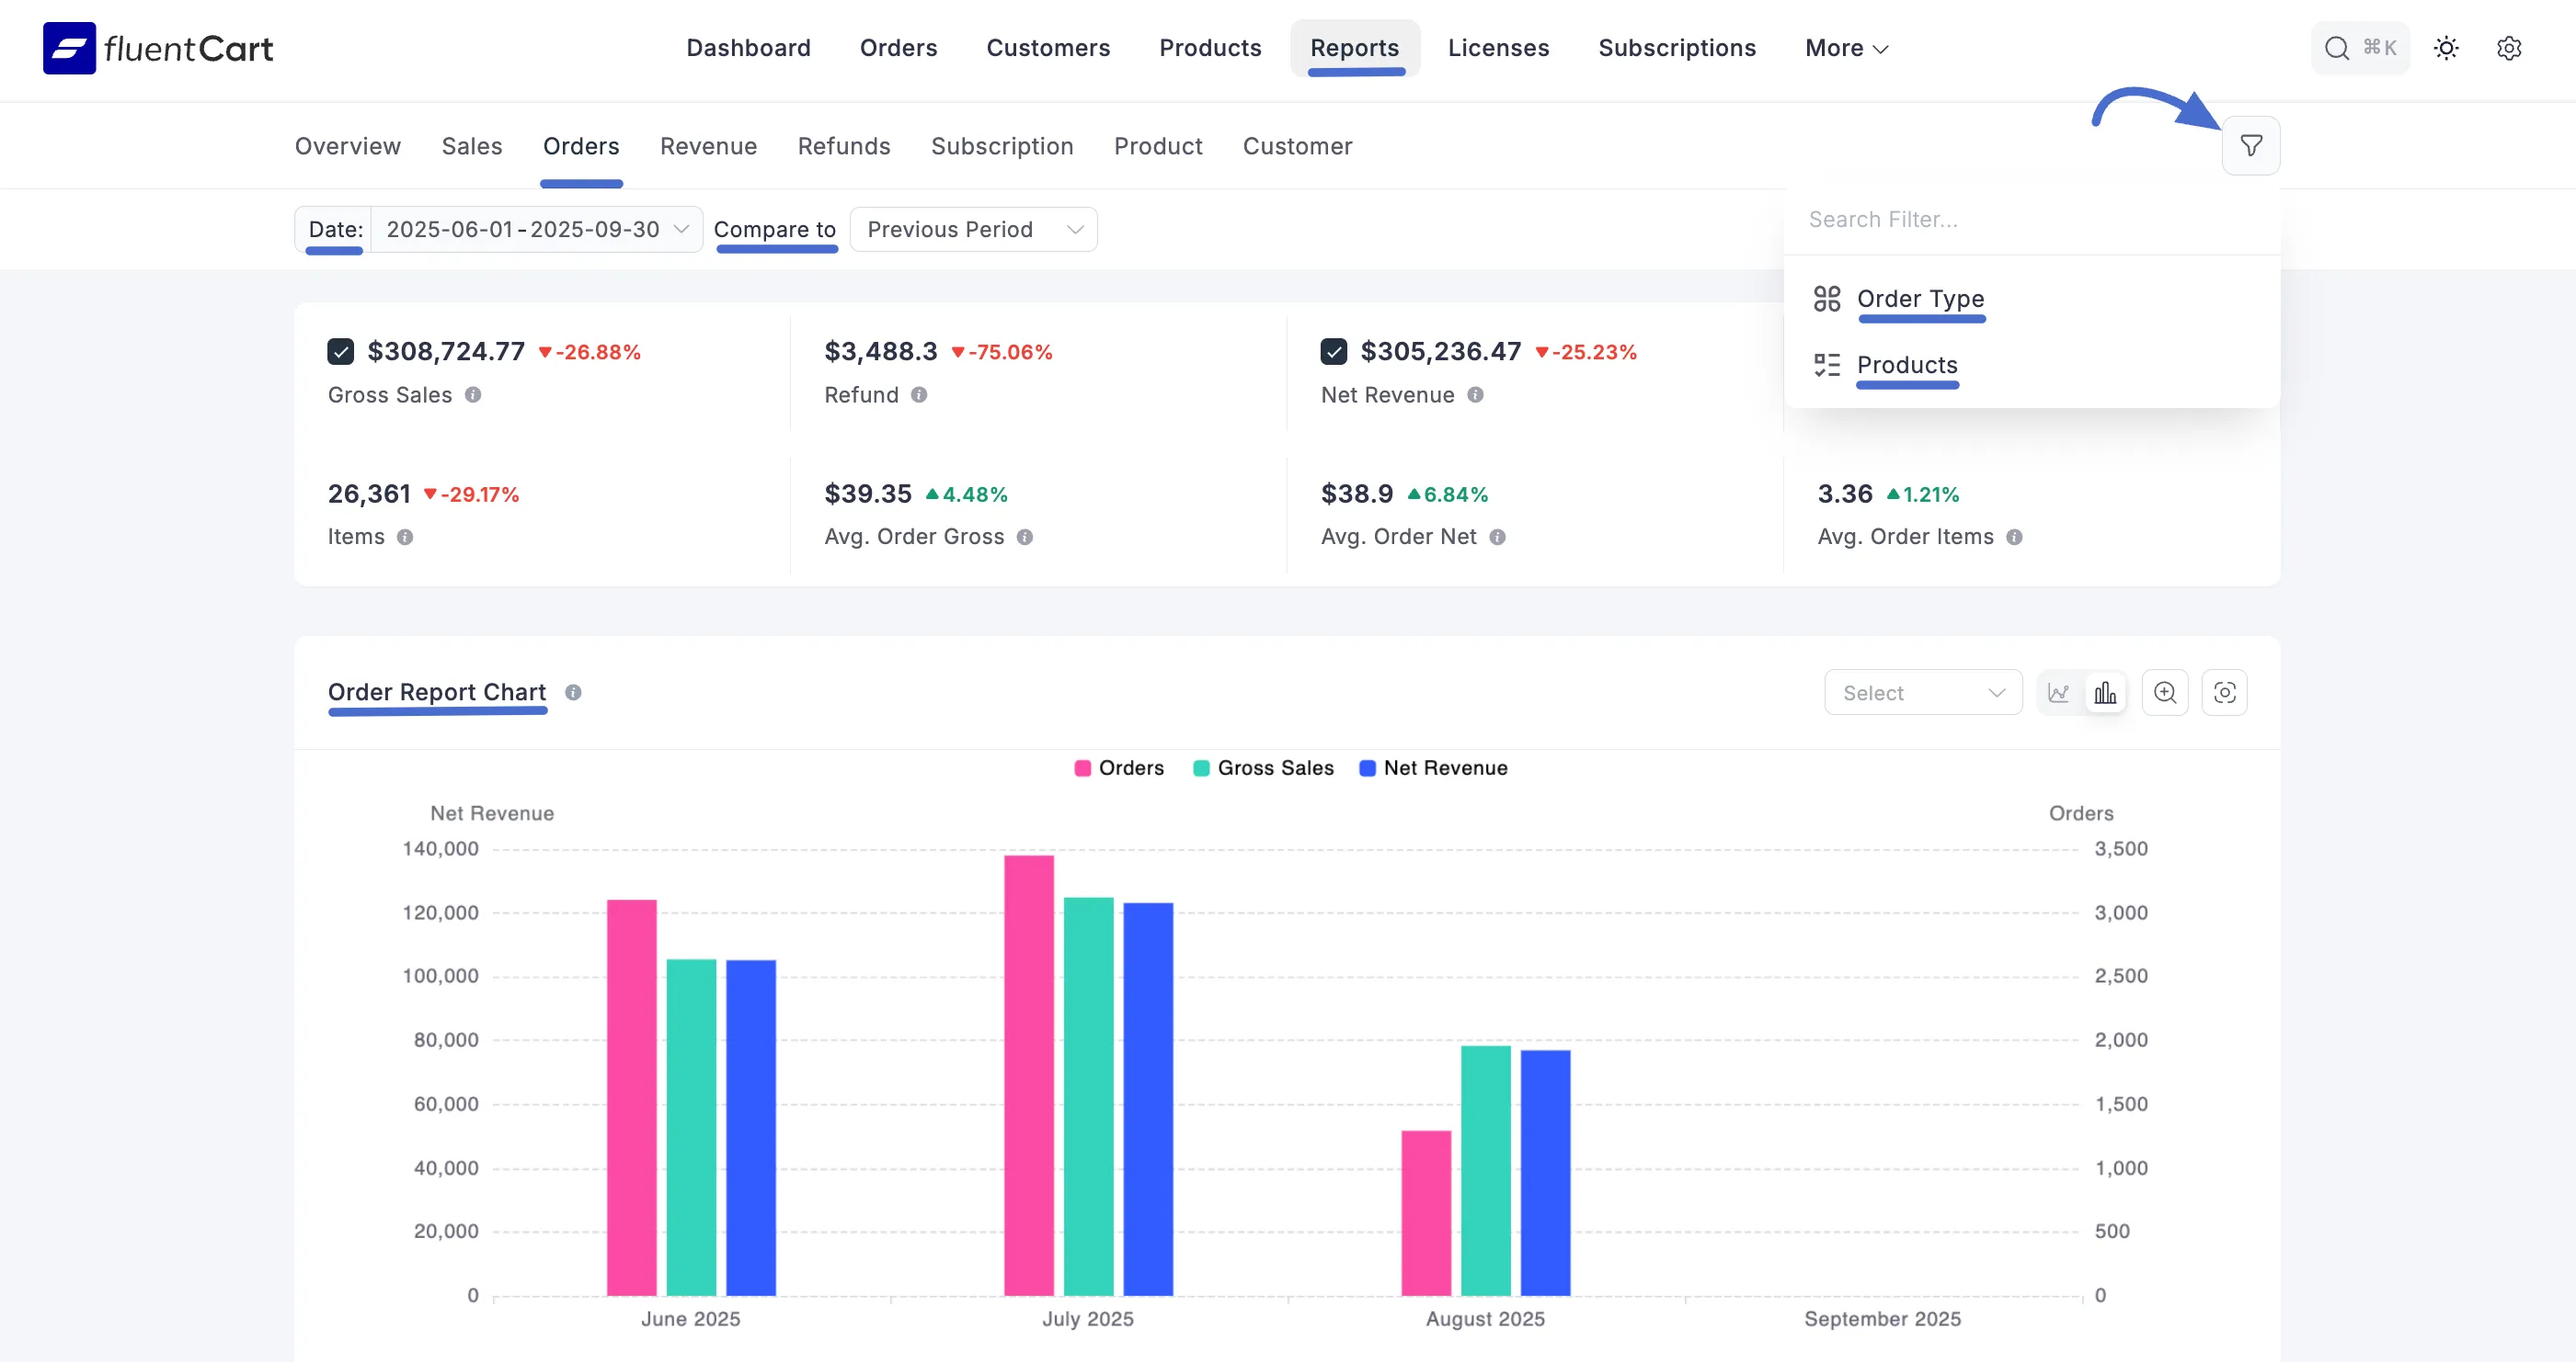
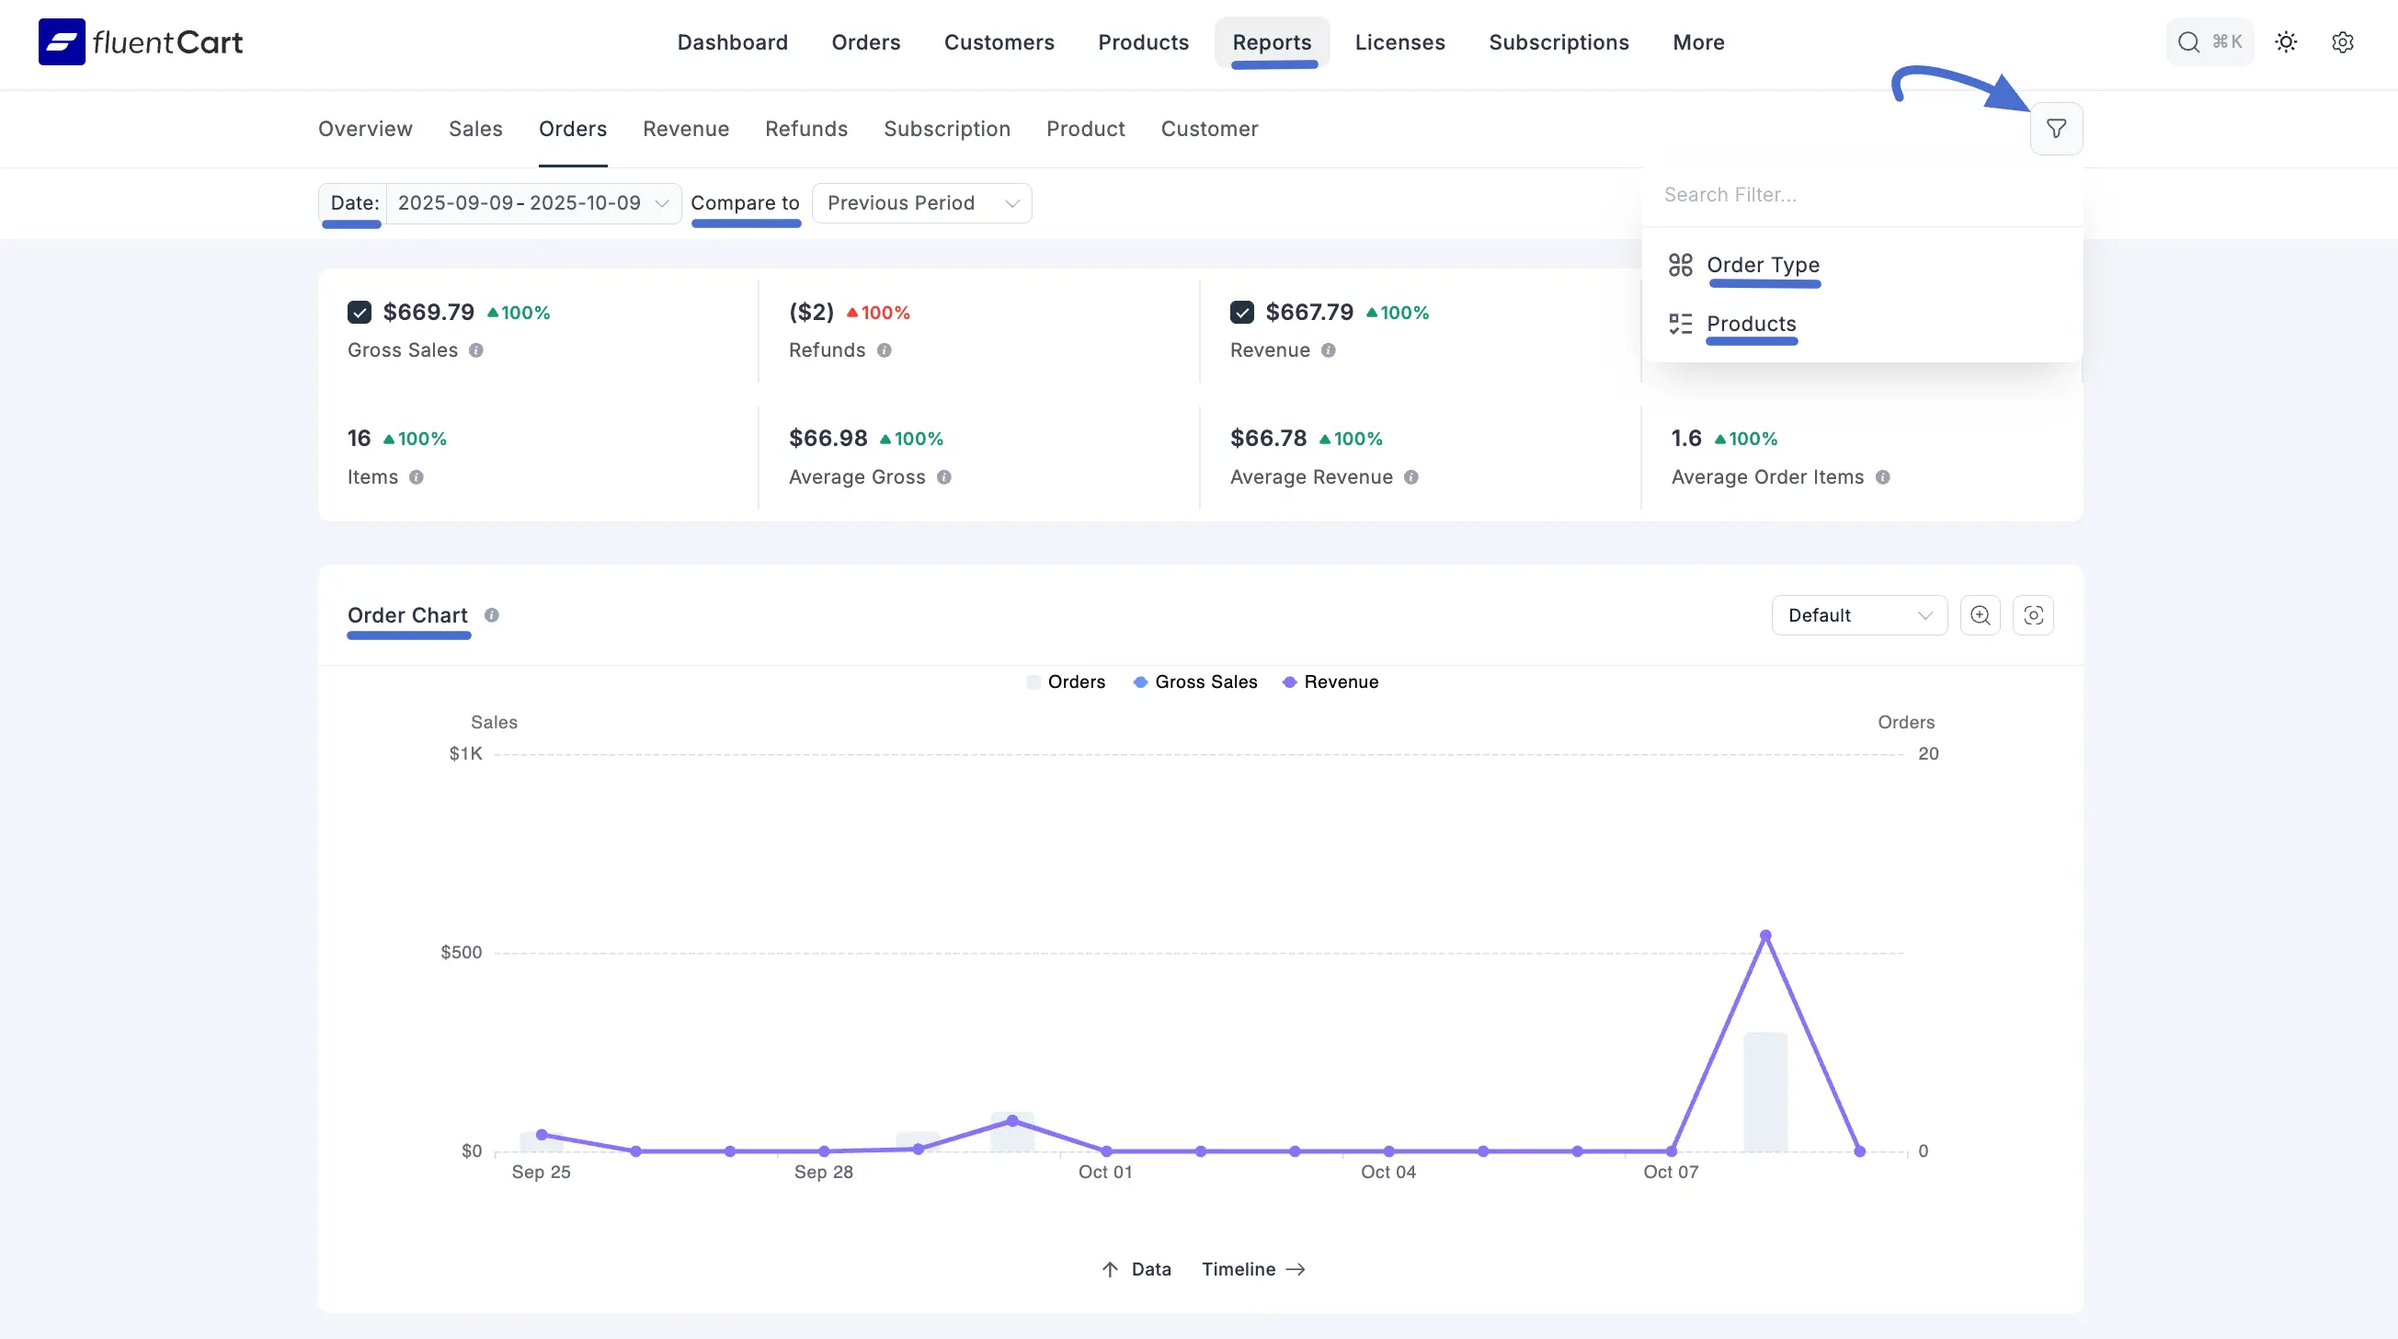
update Orders Report doc
Orders Report doc rewrite and images update

diff --git a/guide/reporting-analytics/orders-report.md b/guide/reporting-analytics/orders-report.md
@@ -27,16 +27,16 @@ At the top of the Orders Report, you will find summary cards highlighting your k
 
 * **Gross Sales:** The total revenue from all orders before any deductions.
 * **Refund:** The total amount of money refunded to customers.
-* **Net Revenue:** The revenue you've earned from orders after refunds are subtracted.
+* **Revenue:** The revenue you've earned from orders after refunds are subtracted (also known as net revenue).
 * **Orders:** The total number of orders placed.
 * **Items:** The total quantity of all product units sold.
-* **Avg. Order Gross:** The average amount of money a customer spends per order.
-* **Avg. Order Net:** The average value of an order after refunds are considered.
-* **Avg. Order Items:** The average number of items customers buy in a single order.
+* **Average Gross:** The average amount of money a customer spends per order, before refunds.
+* **Average Revenue:** The average value of an order after refunds are considered.
+* **Average Order Items:** The average number of items customers buy in a single order.
 
 Each metric also includes a percentage that indicates the increase or decrease compared to the period you are comparing against.
 
-#### Order Report Chart
+#### Order Chart
 
 Just below the KPIs, you’ll see the Order **Report Chart**. This bar chart gives you a clear visual of your store’s performance over time.
 
@@ -68,11 +68,11 @@ This section provides geographical and temporal breakdowns of your order data.
 At the bottom of the report, you’ll find detailed charts that help you understand customer behavior and order trends.
 
 * **Gross Sale by Day:** A bar chart showing total sales for each day of the week, so you can see which days earn the most.
-* **Item Count Distribution:** This chart shows how many orders have 1 item, 2 items, 3 items, etc., helping you understand how many items customers usually buy.
 * **Gross Sale by Hour:** A bar chart that breaks down sales performance for each hour of the day, allowing you to pinpoint your peak sales times.
-* **Time Between Order Created & Completed:** This chart shows how long it takes to complete an order, helping you see how quickly your team fulfills orders.
-* **Average Order Gross:** A line chart that tracks the trend of the average gross value of your orders over the selected time period.
+* **Item Count Distribution:** This chart shows how many orders have 1 item, 2 items, 3 items, etc., helping you understand how many items customers usually buy.
 * **Order Value Distribution:** This chart shows how many orders are in different price ranges (like $0–100 or $100–200) so you can see which order amounts happen most often.
+* **Average Order Gross:** A line chart that tracks the trend of the average gross value of your orders over the selected time period.
 * **Average Order Items:** A line chart that tracks the trend of the average number of items per order over the selected time period.
+* **Time between Order Created & Completed:** This chart shows how long it takes to complete an order, helping you see how quickly your team fulfills orders.
 
    ![Screenshot of Orders Report Page](/images/reporting-analytics/orders/orders-report-by.webp)
